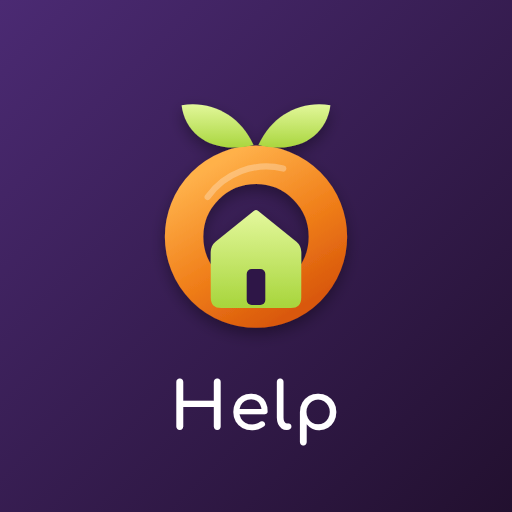
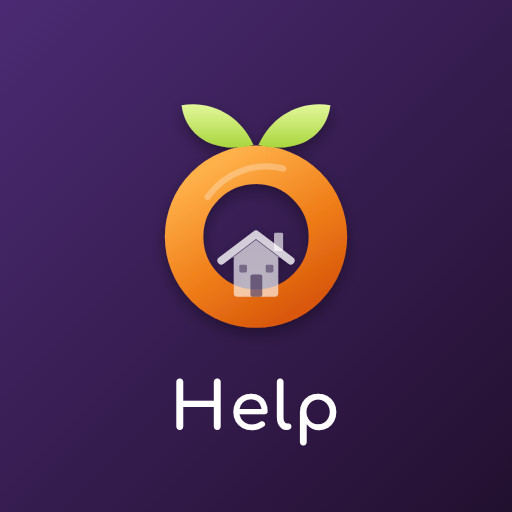
Icona app: casetta più piccola, bianca semitrasparente e più riconoscibile
Tetto sporgente, comignolo, porta e due finestre; icone rigenerate.

Claude-Session: https://claude.ai/code/session_01LcuinfhGbhfMF9GwfxUP1C

Changed region(s): [[0.4062, 0.4062, 0.5938, 0.625]]

diff --git a/CHANGELOG.md b/CHANGELOG.md
@@ -3,7 +3,7 @@
 ## 4.7.0 — 27/10/2026
 
 - App installabile (web app): `manifest.webmanifest`, icone in `icone/` (192, 512, maskable, Apple 180, favicon), service worker `sw.js` (pagine prima dalla rete, copia salvata se manca la rete; CSS/JS/icone salvati e aggiornati in sottofondo; nessuna richiesta verso altri siti), registrato da `app.js` in tutte le pagine. Sul telefono: "Aggiungi a schermata Home".
-- Logo (indicazioni di Stefano): la O con i germogli è la prima lettera della scritta "OrtoCasa Help" in testata e nel piè di pagina (non più un'icona a parte). Icona dell'app: la stessa O con dentro, in basso, una casetta nello stesso stile che sormonta leggermente l'anello, e sotto la scritta "Help". Sorgenti `icone/logo.svg`, `icone/logo-maskable.svg`, `icone/favicon.svg` (favicon senza scritta).
+- Logo (indicazioni di Stefano): la O con i germogli è la prima lettera della scritta "OrtoCasa Help" in testata e nel piè di pagina (non più un'icona a parte). Icona dell'app: la stessa O con dentro, in basso, una casetta bianca semitrasparente (tetto sporgente, comignolo, porta e finestre) che sormonta appena l'anello, e sotto la scritta "Help". Sorgenti `icone/logo.svg`, `icone/logo-maskable.svg`, `icone/favicon.svg` (favicon senza scritta).
 - Social: interruttore `config.json` nel ramo `social` (`pubblica: false` = tutto pronto ma niente pubblicato); 17 test.
 - Test: `tests/test_app.py` (12 verifiche: manifest, icone, service worker vero su localhost, lettura senza rete), aggiunto alla CI; la verifica online controlla manifest, service worker e icone.
 
